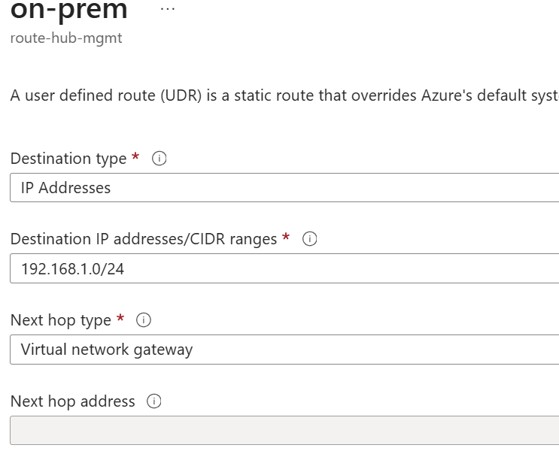
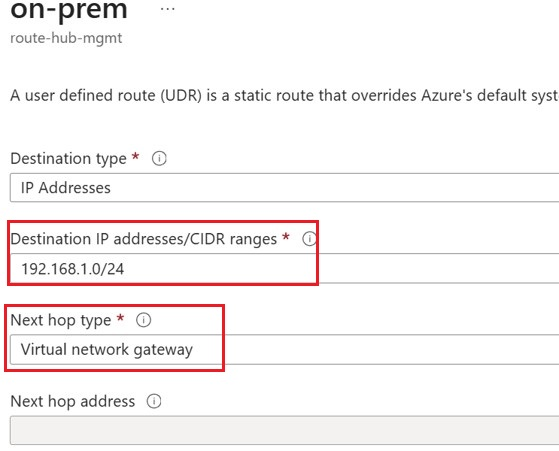
update

Changed region(s): [[0.0, 0.4656, 0.5778, 0.8381]]

diff --git a/docs/04-hybrid-connectivity-site-to-site-vpn.md b/docs/04-hybrid-connectivity-site-to-site-vpn.md
@@ -277,6 +277,14 @@ we will find it failed to go through
 
 That is because the route table in the hub subnet is not yet configured for the route to the on-prem network through the VPN tunnel. As an result, VM in the Hub did not know where to send the response of the ping from on-prem server. we need to add a route in the route table the Hub mgmt subnet, where the VM is located. 
 
+```
+Route Name: on-prem
+Destination Type: IP Address: 192.168.1.0/24  (ON-prem endpoint network address)
+Next Hop Type: Virtual Netwrok gateway
+```
+
+
+
 > <img title="" src="../screenshots/44route.jpg" alt="" width="60%" data-align="center">
 
 3. ### Test the VPN connection from Azure hub VNet and on-prem VPN server